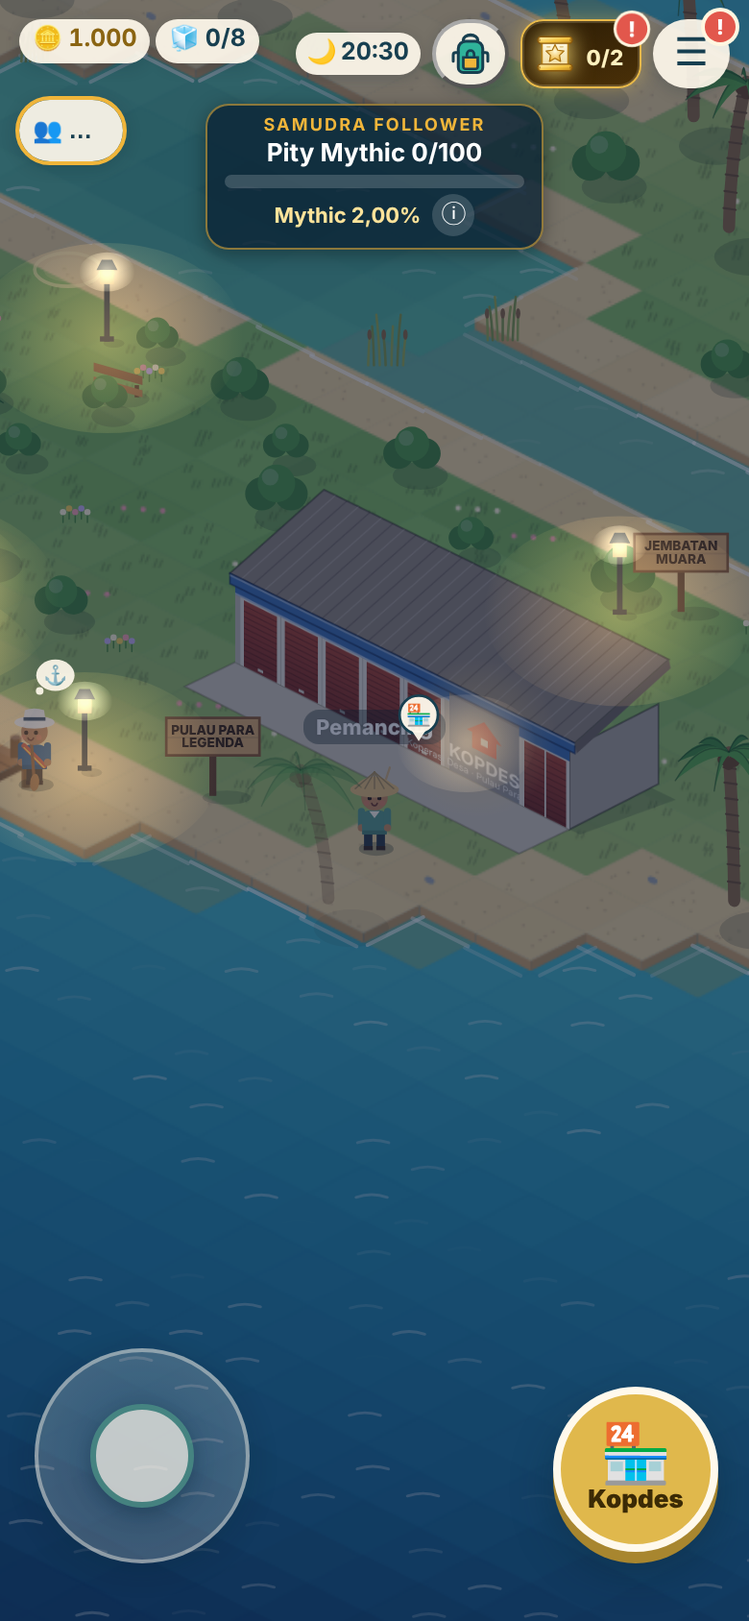
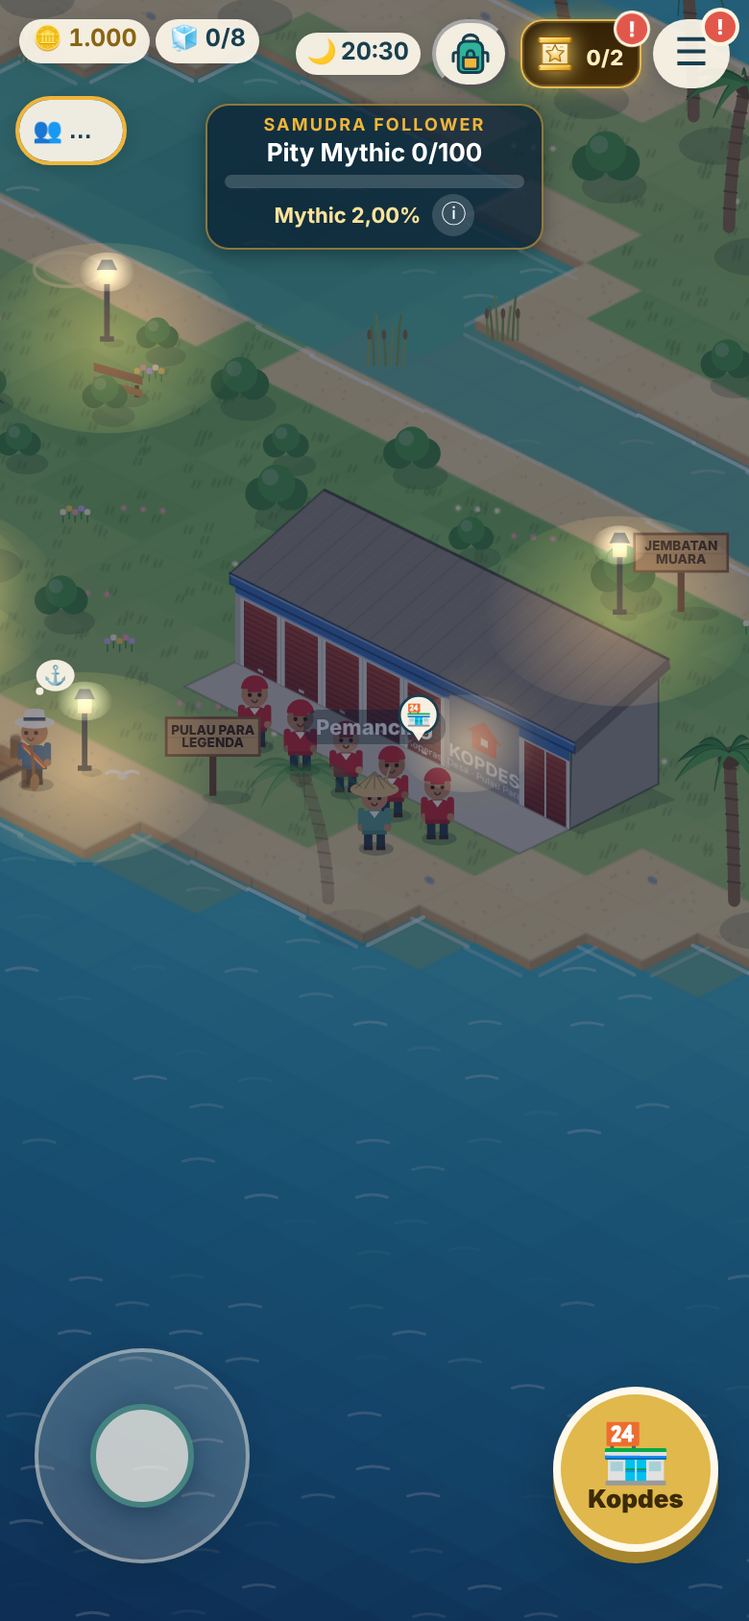
Kopdes: perbaikan atap, Joran Kopdes (1.000 koin, 250 kg), pasukan pegawai + pemimpin orisinal
- atap: dinding ujung menyentuh atap, rusuk dilembutkan
- Joran Kopdes merah bermerek, beli sekali via ecoBuy kind "kop", terkunci shop/config.kopdes (bawaan mati)
- 5 pegawai + 1 pemimpin orisinal: berbaris, angkut persediaan, pemimpin pergi, pegawai berbaris tegap
- tanpa karakter/suara tokoh nyata

Claude-Session: https://claude.ai/code/session_01HzrTpCFkhjSBdh3Pmjwd1c

Changed region(s): [[0.3077, 0.4005, 0.6154, 0.5237]]

diff --git a/kopdes/crew.js b/kopdes/crew.js
@@ -1,0 +1,86 @@
+// =========================================================
+//  NUSA ISLAND — REGU KOPDES: 1 pemimpin + 5 pegawai (karakter ORISINAL; bukan tokoh nyata). Hanya bila NUSA_KOPDES === true.
+//  Siklus (jam dinding, sama untuk semua pemain; sepenuhnya di klien, tanpa jaringan/server):
+//   1) pemimpin & 5 pegawai berbaris dari dermaga ke depan Kopdes; 2) pemimpin memberi perintah; 3) pegawai bolak-balik memikul
+//   peti persediaan dari tumpukan ke pintu samping Kopdes; 4) setelah SELESAI pemimpin memberi aba-aba lalu pergi ke dermaga dan HILANG;
+//   5) 5 pegawai berdiri tegap rapi sebaris di depan Kopdes sampai siklus berikutnya. Gambar memakai NW.drawCharacter (ringan, tanpa aset).
+// =========================================================
+(() => {
+"use strict";
+const NW = (window.NW = window.NW || {});
+if (!NW.kopdes) return;
+const CYCLE = 210, SPEED = 1.7, N = 5, TRIPS = 3;
+const DOCK = [31.4, 29.7], STACK = [32.3, 28.7], BAY = [38.6, 26.75], POST = [36.4, 29.5];
+const ROW = (i) => [34.7 + i * 0.82, 27.65];
+const STYLE_STAFF = [
+  { skin: "#c68b5e", hair: "#2a1d14" }, { skin: "#b07b52", hair: "#1c1410" }, { skin: "#d8a074", hair: "#3a2a1c" }, { skin: "#a9744a", hair: "#241a12" }, { skin: "#c28a5a", hair: "#30221a" },
+].map((o) => Object.assign({ shirt: "#c4262e", pants: "#2b3a44", hat: "cap", hatCol: "#c4262e", collar: "#fff7e8" }, o));
+const STYLE_LEAD = { shirt: "#5a6b3a", pants: "#39422a", skin: "#a87a50", hair: "#1e1611", hat: "baret", hatCol: "#8a1f2a", sash: "#c9a23b", sashLine: "#f0d070", collar: "#d8d2a8" };
+
+const dist = (a, b) => Math.hypot(a[0] - b[0], a[1] - b[1]);
+function build() {
+  const staff = [], picks = []; let tAllDone = 0;
+  for (let i = 0; i < N; i++) {
+    const w = [], t0 = 1.0 + i * 0.7; let t = t0, p = DOCK;
+    const go = (to, extra) => { t += dist(p, to) / SPEED; p = to; w.push(Object.assign({ t, x: to[0], y: to[1] }, extra || {})); };
+    const stay = (d, extra) => { t += d; w.push(Object.assign({ t, x: p[0], y: p[1] }, extra || {})); };
+    w.push({ t: t0, x: DOCK[0], y: DOCK[1] });
+    go(ROW(i)); const arrive = Math.max(t, 9.5 + i * 0.4); t = arrive; w.push({ t, x: p[0], y: p[1], dir: 2 });
+    t = 17 + i * 1.1; w.push({ t, x: p[0], y: p[1], dir: 2 });                       // tegap menunggu perintah, lalu mulai bekerja bergiliran
+    for (let k = 0; k < TRIPS; k++) {
+      go(STACK); stay(0.9, { dir: 1 }); picks.push(t); w[w.length - 1].prop = "crate";
+      go(BAY, { prop: "crate" }); stay(1.2, { hide: true, prop: null });
+    }
+    go(ROW(i)); stay(0.5, { dir: 2 }); tAllDone = Math.max(tAllDone, t);
+    staff.push(w);
+  }
+  const tLeave = tAllDone + 4, lead = [], speak = [];
+  let t = 0, p = DOCK; const go = (to) => { t += dist(p, to) / SPEED; p = to; lead.push({ t, x: to[0], y: to[1] }); };
+  lead.push({ t: 0, x: DOCK[0], y: DOCK[1] }); go(POST); lead.push({ t: t + 0.01, x: POST[0], y: POST[1], dir: 6 });
+  lead.push({ t: tLeave, x: POST[0], y: POST[1], dir: 6 }); t = tLeave; go(DOCK); lead[lead.length - 1].hide = true;
+  speak.push([11, 16, "Pasukan! Angkut barang persediaan ke dalam Kopdes!"], [26, 30, "Cepat, jangan ada yang menganggur!"], [40, 44, "Hati-hati, petinya jangan jatuh!"], [tLeave - 4.5, tLeave - 0.3, "Selesai! Kembali ke barisan!"]);
+  return { staff, lead, picks: picks.sort((a, b) => a - b), tLeave, speak, say: [[17.2, 19.5, "Siap, laksanakan!"]] };
+}
+const PLAN = build();
+
+function dirOf(dx, dy) { const sx = dx - dy, sy = (dx + dy) / 2, a = Math.atan2(sy, sx); return ((Math.round(a / (Math.PI / 4)) % 8) + 8) % 8; }
+function sample(w, tc, tw, last) {
+  if (tc < w[0].t) return { hide: true };
+  const E = w[w.length - 1];
+  if (tc >= E.t) return { x: E.x, y: E.y, dir: E.dir ?? 2, moving: false, hide: !!E.hide, prop: E.prop || null };
+  let k = 0; while (k < w.length - 2 && tc >= w[k + 1].t) k++;
+  const a = w[k], b = w[k + 1], d = Math.hypot(b.x - a.x, b.y - a.y), u = b.t > a.t ? (tc - a.t) / (b.t - a.t) : 1;
+  if (d < 0.01) return { x: a.x, y: a.y, dir: b.dir ?? a.dir ?? last.dir ?? 2, moving: false, hide: !!(a.hide || b.hide), prop: b.prop !== undefined ? b.prop : a.prop || null };
+  return { x: a.x + (b.x - a.x) * u, y: a.y + (b.y - a.y) * u, dir: dirOf(b.x - a.x, b.y - a.y), moving: true, hide: false, prop: a.prop || null };
+}
+const mk = (style) => ({ x: 0, y: 0, dir: 2, walk: 0, moving: false, style, rod: 0, seed: 1 + Math.random() * 6, prop: null });
+const chars = { lead: mk(STYLE_LEAD), staff: STYLE_STAFF.map(mk) };
+let clock = () => (Date.now() / 1000) % CYCLE;
+function bubble(c, p, text) {
+  c.save(); c.font = "bold 8px system-ui,sans-serif"; const w = c.measureText(text).width + 12, x = p.x - w / 2, y = p.y - 62;
+  c.fillStyle = "rgba(255,252,240,.96)"; c.strokeStyle = "rgba(60,40,20,.7)"; c.lineWidth = 1;
+  c.beginPath(); c.roundRect ? c.roundRect(x, y, w, 15, 6) : c.rect(x, y, w, 15); c.fill(); c.stroke();
+  c.beginPath(); c.moveTo(p.x - 3, y + 15); c.lineTo(p.x, y + 20); c.lineTo(p.x + 3, y + 15); c.closePath(); c.fill(); c.stroke();
+  c.fillStyle = "#3a2410"; c.textAlign = "center"; c.textBaseline = "middle"; c.fillText(text, p.x, y + 7.8); c.restore();
+}
+function remainingCrates(tc) { let n = 0; for (const t of PLAN.picks) if (tc >= t) n++; return N * TRIPS - n; }
+function drawStack(c, tc) {
+  const n = Math.min(8, Math.ceil(remainingCrates(tc) * 8 / (N * TRIPS))), b = NW.P(STACK[0] - 0.55, STACK[1] + 0.25, NW.groundZ ? NW.groundZ(STACK[0], STACK[1]) : NW.LIFT);
+  const sp = [[0, 0, 0], [13, 6, 0], [-13, 6, 0], [6, 3, 9], [-7, 3, 9], [0, 7, 9], [13, 6, 9], [0, 0, 18]];
+  for (let i = 0; i < n; i++) { const [dx, dy, dz] = sp[i], x = b.x + dx, y = b.y + dy - dz; c.fillStyle = "#c79a5c"; c.fillRect(x - 6, y - 9, 12, 9); c.strokeStyle = "#7a5530"; c.lineWidth = 0.9; c.strokeRect(x - 6, y - 9, 12, 9); c.fillStyle = "#c4262e"; c.fillRect(x - 1.5, y - 9, 3, 9); }
+}
+function layer(t) {
+  if (window.NUSA_KOPDES !== true) return [];
+  const tc = clock(), items = [], gzf = (x, y) => (NW.groundZ ? NW.groundZ(x, y) : NW.LIFT);
+  items.push({ d: STACK[0] + STACK[1] + 0.1, draw: (c) => drawStack(c, tc) });
+  const put = (ch, s, say, speaking) => {
+    if (s.hide) return; Object.assign(ch, { x: s.x, y: s.y, dir: s.dir ?? ch.dir, moving: !!s.moving, prop: s.prop || null }); if (s.moving) ch.walk = t * 10;
+    items.push({ d: s.x + s.y, draw: (c) => { NW.drawCharacter(c, ch, t); if (say) bubble(c, NW.P(s.x, s.y, gzf(s.x, s.y)), say); } });
+  };
+  const ls = tc < PLAN.lead[0].t ? { hide: true } : sample(PLAN.lead, tc, t, chars.lead), say = (PLAN.speak.find((q) => tc >= q[0] && tc < q[1]) || [])[2];
+  put(chars.lead, ls, say);
+  for (let i = 0; i < N; i++) { const s = sample(PLAN.staff[i], tc, t, chars.staff[i]); put(chars.staff[i], s, i === 0 && tc >= PLAN.say[0][0] && tc < PLAN.say[0][1] ? PLAN.say[0][2] : null); }
+  return items;
+}
+NW.kopdesCrew = { layer, PLAN, CYCLE, ROW, STACK, BAY, POST, DOCK, setClock: (f) => { clock = f || (() => (Date.now() / 1000) % CYCLE); }, at: (tc) => ({ lead: sample(PLAN.lead, tc, 0, chars.lead), staff: PLAN.staff.map((w, i) => sample(w, tc, 0, chars.staff[i])), crates: remainingCrates(tc) }) };
+})();

diff --git a/world/look.js b/world/look.js
@@ -94,6 +94,7 @@ const RODS = [
 function syncNames() { RODS.forEach((r, i) => { r.name = UPGRADES.rod.levels[i]; }); }
 syncNames();
 function rodSpec(level) {
+  if (level === undefined && NW.kopdesRod && NW.kopdesRod.spec) { const x = NW.kopdesRod.spec(); if (x) return x; } // Joran Kopdes (dibeli di Kopdes; kepemilikan dari server)
   if (level === undefined && NW.aurora && NW.aurora.rodSpec) { const x = NW.aurora.rodSpec(); if (x) return x; } // Pancing Aurora Samudra (Gamepass; kepemilikan dari server)
   if (level === undefined && NW.quest && NW.quest.rodSpec) { const x = NW.quest.rodSpec(); if (x) return x; } // Joran WhatsApp (hadiah Quest Owner)
   if (level === undefined && NW.streak && NW.streak.rodSpec) { const x = NW.streak.rodSpec(); if (x) return x; } // Joran Pelaut Eksklusif (hadiah Login Streak)
@@ -132,6 +133,16 @@ function accents(c, spec, at, nx, ny, g) {
     c.strokeStyle = `rgba(255,255,255,${(0.22 + 0.18 * sh).toFixed(2)})`; c.lineWidth = 0.7;
     c.beginPath(); c.moveTo(p0[0] + nx * 0.5, p0[1] + ny * 0.5); c.lineTo(p1[0] + nx * 0.5, p1[1] + ny * 0.5); c.stroke();
     const tp = at(1); c.fillStyle = a.col; c.beginPath(); c.arc(tp[0], tp[1], 1.1, 0, 7); c.fill();
+  } else if (a.kind === "kopdes") { // Joran Kopdes: pita emas, plat merek KOPDES sejajar batang, kilau & percik MERAH (ringan: 1 gradien + 3 titik)
+    [0.3, 0.46, 0.62, 0.78].forEach((k) => band(k, w, a.col, 1.2));
+    band(g + 0.02, w, a.col, 1.4);
+    const q0 = at(0), q1 = at(1), ang = Math.atan2(q1[1] - q0[1], q1[0] - q0[0]), pl = at(g + 0.2), tt = performance.now() / 1000;
+    c.save(); c.translate(pl[0], pl[1]); c.rotate(ang);
+    c.fillStyle = "#fff7e8"; c.fillRect(-5, -1.9, 10, 3.8); c.strokeStyle = "#8a1219"; c.lineWidth = 0.4; c.strokeRect(-5, -1.9, 10, 3.8);
+    c.fillStyle = "#b3171f"; c.font = "bold 2.7px system-ui,sans-serif"; c.textAlign = "center"; c.fillText("KOPDES", 0, 0.95); c.restore();
+    const tp = at(1), gl = c.createRadialGradient(tp[0], tp[1], 0, tp[0], tp[1], 7), pu = 0.7 + 0.3 * Math.sin(tt * 3.2);
+    gl.addColorStop(0, `rgba(255,70,60,${(0.6 * pu).toFixed(2)})`); gl.addColorStop(1, "rgba(255,70,60,0)"); c.fillStyle = gl; c.fillRect(tp[0] - 7, tp[1] - 7, 14, 14);
+    for (let i = 0; i < 3; i++) { const k = (tt * 0.55 + i / 3) % 1, p = at(0.3 + 0.7 * k), sd = Math.sin(tt * 4 + i * 2.1) * 2.2; c.fillStyle = `rgba(255,${60 + i * 40},${50},${(0.85 * (1 - k)).toFixed(2)})`; c.beginPath(); c.arc(p[0] + nx * sd, p[1] + ny * sd, 0.9 * (1 - k * 0.5), 0, 7); c.fill(); }
   } else if (a.kind === "pearls") { // manik karang berselang-seling
     [0.38, 0.48, 0.58, 0.68].forEach((k, i) => { const p = at(k); c.fillStyle = i % 2 ? a.col : "#ff9b7a"; c.beginPath(); c.arc(p[0], p[1], 1.0, 0, 7); c.fill(); });
     band(g + 0.02, w, a.col, 1.2);
@@ -187,6 +198,14 @@ function drawBackRod(c, spec, fx, y0, sway, inFront) {
 }
 // Pratinjau untuk katalog toko (kanvas kecil, di-cache per tingkat)
 const previewCache = {};
+function rodPreviewSpec(spec) {   // pratinjau joran khusus (mis. Joran Kopdes) yang tidak ada di tangga 20 joran
+  const key = "s:" + spec.name; if (previewCache[key]) return previewCache[key];
+  const cv = document.createElement("canvas"); cv.width = 72; cv.height = 108;
+  const c = cv.getContext("2d"); c.translate(36, 100); c.scale(2.2, 2.2);
+  c.fillStyle = "rgba(0,0,0,.12)"; c.beginPath(); c.ellipse(0, 4, 9, 2.2, 0, 0, 7); c.fill();
+  drawBackRod(c, spec, 0, 0, 0, true);
+  return (previewCache[key] = cv.toDataURL());
+}
 function rodPreview(level) {
   if (previewCache[level]) return previewCache[level];
   const cv = document.createElement("canvas"); cv.width = 72; cv.height = 108;
@@ -292,5 +311,5 @@ function hook() {
   N().on("catch", onCatch);
 }
 
-NW.look = { TITLES, RODS, rodPreview, drawHeldRod, syncNames, rankOf, titleName, count, rank, currentTitle, nextGoal, playerName, cleanName, rodSpec, drawBackRod, drawLabel, labelTop, drawPlayerLabel, panelSection, act, hook, defaults };
+NW.look = { TITLES, RODS, rodPreview, rodPreviewSpec, drawHeldRod, syncNames, rankOf, titleName, count, rank, currentTitle, nextGoal, playerName, cleanName, rodSpec, drawBackRod, drawLabel, labelTop, drawPlayerLabel, panelSection, act, hook, defaults };
 })();

diff --git a/tests/unit-kopdes.js b/tests/unit-kopdes.js
@@ -1,0 +1,23 @@
+// Uji server Joran Kopdes: terkunci bawaan, gerbang config Owner, harga dari tabel server, SATU kali, saldo, klien tak bisa memalsukan.
+const assert = require("assert"), fs = require("fs"), path = require("path");
+const EC = require("../economy/core.js"), FM = require("../fishmath.js"), T = require("../economy/tables.js");
+let pass = 0, fail = 0; const t = async (n, f) => { try { await f(); pass++; } catch (e) { fail++; console.log("FAIL", n, "\n   ", e.stack.split("\n").slice(0, 3).join("\n    ")); } };
+function mkdb() { const m = new Map(); const rd = (p) => (m.has(p) ? JSON.parse(m.get(p)) : null); let q = Promise.resolve();
+  return { m, get: async (p) => rd(p), tx: (fn) => { const run = q.then(async () => { const buf = new Map(); const out = await fn({ get: async (p) => (buf.has(p) ? JSON.parse(buf.get(p)) : rd(p)), set: async (p, o) => { buf.set(p, JSON.stringify(o)); } }); for (const [p, v] of buf) m.set(p, v); return out; }); q = run.catch(() => {}); return run; } }; }
+let now = 1e12, n = 0; const op = () => "op" + (++n) + "xxxxxxxx", U = { uid: "u1" };
+const mk = (cfg) => { const db = mkdb(); if (cfg) db.m.set("shop/config", JSON.stringify(cfg)); return { db, e: EC.makeEconomyServer(db, { clock: () => now, tables: T, fishmath: FM, trustClientInit: true }) }; };
+(async () => {
+  await t("tabel: Joran Kopdes 1.000 koin, 250 kg", () => { assert.deepStrictEqual(JSON.parse(JSON.stringify(T.KOP)), { price: 1000, capKg: 250 }); });
+  await t("salinan Functions sama dengan sumber", () => { for (const [a, b] of [["economy/core.js", "economy-core.js"], ["economy/tables.js", "economy-tables.js"]]) assert.ok(fs.readFileSync(path.join(__dirname, "../firebase/functions/lib", b), "utf8").endsWith(fs.readFileSync(path.join(__dirname, "..", a), "utf8").slice(-400))); });
+  for (const [nm, cfg] of [["tanpa config", null], ["kopdes:false", { kopdes: false }], ["kopdes string 'true'", { kopdes: "true" }]])
+    await t("bendera MATI (" + nm + ") → beli ditolak, koin utuh", async () => { const { e } = mk(cfg); await e.ecoInit(U, { money: 5000 }); await assert.rejects(() => e.ecoBuy(U, { opId: op(), kind: "kop" }), /belum dibuka/); const s = await e.ecoState(U); assert.equal(!!s.kop, false); assert.equal(s.balance, 5000); });
+  await t("bendera NYALA: beli 1.000 (harga server, klien tak bisa mengubah), kop=true, saldo turun", async () => { const { e } = mk({ kopdes: true }); await e.ecoInit(U, { money: 5000 });
+    const r = await e.ecoBuy(U, { opId: op(), kind: "kop", price: 1, cost: 1 }); assert.equal(r.price, 1000); assert.equal(r.kop, true); const s = await e.ecoState(U); assert.equal(s.balance, 4000); assert.equal(s.kop, true); });
+  await t("beli kedua ditolak (milik selamanya, satu kali); koin tidak berkurang lagi", async () => { const { e } = mk({ kopdes: true }); await e.ecoInit(U, { money: 5000 }); await e.ecoBuy(U, { opId: op(), kind: "kop" });
+    await assert.rejects(() => e.ecoBuy(U, { opId: op(), kind: "kop" }), /sudah dimiliki/); assert.equal((await e.ecoState(U)).balance, 4000); });
+  await t("saldo kurang → ditolak, kop tetap false", async () => { const { e } = mk({ kopdes: true }); await e.ecoInit(U, { money: 999 }); await assert.rejects(() => e.ecoBuy(U, { opId: op(), kind: "kop" }), /tidak cukup/); assert.equal(!!(await e.ecoState(U)).kop, false); });
+  await t("opId yang sama (klik ganda) → hanya satu pembelian", async () => { const { e } = mk({ kopdes: true }); await e.ecoInit(U, { money: 5000 }); const id = op();
+    const rs = await Promise.allSettled([e.ecoBuy(U, { opId: id, kind: "kop" }), e.ecoBuy(U, { opId: id, kind: "kop" })]); assert.equal((await e.ecoState(U)).balance, 4000); assert.ok(rs.some((x) => x.status === "fulfilled")); });
+  await t("pembelian lama (up/home/cat) tidak berubah", async () => { const { e } = mk({ kopdes: true }); await e.ecoInit(U, { money: 3000 }); const a = await e.ecoBuy(U, { opId: op(), kind: "up", k: "rod", lv: 1 }); assert.equal(a.price, T.UP.rod.cost[1]); await assert.rejects(() => e.ecoBuy(U, { opId: op(), kind: "zzz" }), /tidak dikenal/); });
+  console.log(`unit-kopdes: ${pass} lulus, ${fail} gagal`); process.exit(fail ? 1 : 0);
+})();

diff --git a/economy/core.js b/economy/core.js
@@ -59,7 +59,7 @@
     const fresh = () => ({ v: 1, init: false, bal: 0, up: { rod: 0, bait: 0, cooler: 0, boat: 0 }, homeLv: 1, cat: {}, claimed: {}, box: [], catches: [], missions: { day: 0, total: 0, n: 0, ids: [] },
       ops: [], earned: 0, spent: 0, lastCatchAt: 0, quest: null, streak: null, streakBait: 0, ev: {}, troph: {} });
     const topupOf = (ent) => (ent && ent.wallet && ent.wallet.NYATA) || 0;
-    const view = (eco, ent) => ({ init: eco.init, own: eco.bal, topup: topupOf(ent), balance: eco.bal + topupOf(ent), up: eco.up, homeLv: eco.homeLv, cat: eco.cat,
+    const view = (eco, ent) => ({ init: eco.init, own: eco.bal, topup: topupOf(ent), balance: eco.bal + topupOf(ent), up: eco.up, homeLv: eco.homeLv, cat: eco.cat, kop: !!eco.kop,
       box: eco.box.map((b) => b.u), sx: eco.box.filter((b) => FISH[b.id] && FISH[b.id].sup).map((b) => ({ uid: b.u, id: b.id, w: b.w })), claimed: Object.keys(eco.claimed), troph: eco.troph || {},
       ...(QK ? { qo: QK.view(eco.quest) } : {}),
       ...(AU ? { aur: { own: AU.ownsAny(ent), live: AU.active(ent, eco), eq: AU.equipOn(eco), n: (eco.aur && eco.aur.n) || 0, up: (eco.aur && eco.aur.up) || 0 } } : {}) });
@@ -207,7 +207,7 @@
           for (const it of items) {
             let f = FISH[it.id], w = Number(it.w);
             if (f.protected) { const r = Math.round(f.price * PRICE_SCALE * FM.effectiveKg(w) * 1.2); reward += r; credit(eco, r); fin.push(it); continue; }
-            if (QK && w > QK.plausKg(eco.up.rod, eco.quest)) { skipped.push(it.uid); capSkipped.push(it.uid); fin.push(it); continue; }   // mustahil bagi joran terverifikasi (Quest Owner: batas 100 kg ditegakkan server); tangkapan sah tidak tersentuh
+            if (QK && w > Math.max(QK.plausKg(eco.up.rod, eco.quest), eco.kop && T.KOP ? T.KOP.capKg * QK.PLAUS : 0)) { skipped.push(it.uid); capSkipped.push(it.uid); fin.push(it); continue; }   // mustahil bagi joran terverifikasi (Quest Owner: batas 100 kg ditegakkan server); tangkapan sah tidak tersentuh
             if (pondKnows(eco, it.uid)) { skipped.push(it.uid); fin.push(it); continue; }            // ikan yang sedang/pernah di kolam (mis. simpanan lama dipulihkan) tidak boleh masuk kotak lagi
             if (eco.box.some((b) => b.u === it.uid)) throw E("already-exists", "UID ikan sudah ada.");
             if (eco.box.length >= LIM.boxMax) throw E("resource-exhausted", "Kotak ikan penuh.");
@@ -488,6 +488,12 @@
             if (next >= T.HOME.length) throw E("failed-precondition", "Rumah sudah level maksimum.");
             if (p.lv !== next) throw E("failed-precondition", "Level tujuan tidak sesuai (klik basi).");
             price = T.HOME[next].price; apply = () => { eco.homeLv = next; };
+          } else if (p.kind === "kop") {            // Joran Kopdes: SATU kali, harga dari tabel; TERKUNCI sampai Owner menyalakan shop/config.kopdes (bawaan MATI)
+            if (!T.KOP) throw E("failed-precondition", "Joran Kopdes belum tersedia.");
+            const cfg = (await t.get("shop/config")) || {};
+            if (cfg.kopdes !== true) throw E("failed-precondition", "Joran Kopdes belum dibuka.");
+            if (eco.kop) throw E("failed-precondition", "Joran Kopdes sudah dimiliki.");
+            price = T.KOP.price; apply = () => { eco.kop = true; };
           } else if (p.kind === "cat") {
             const c = typeof p.id === "string" && Object.prototype.hasOwnProperty.call(T.CAT, p.id) ? T.CAT[p.id] : null;
             if (!c) throw E("invalid-argument", "Barang tidak dikenal.");

diff --git a/firebase/functions/lib/economy-core.js b/firebase/functions/lib/economy-core.js
@@ -60,7 +60,7 @@
     const fresh = () => ({ v: 1, init: false, bal: 0, up: { rod: 0, bait: 0, cooler: 0, boat: 0 }, homeLv: 1, cat: {}, claimed: {}, box: [], catches: [], missions: { day: 0, total: 0, n: 0, ids: [] },
       ops: [], earned: 0, spent: 0, lastCatchAt: 0, quest: null, streak: null, streakBait: 0, ev: {}, troph: {} });
     const topupOf = (ent) => (ent && ent.wallet && ent.wallet.NYATA) || 0;
-    const view = (eco, ent) => ({ init: eco.init, own: eco.bal, topup: topupOf(ent), balance: eco.bal + topupOf(ent), up: eco.up, homeLv: eco.homeLv, cat: eco.cat,
+    const view = (eco, ent) => ({ init: eco.init, own: eco.bal, topup: topupOf(ent), balance: eco.bal + topupOf(ent), up: eco.up, homeLv: eco.homeLv, cat: eco.cat, kop: !!eco.kop,
       box: eco.box.map((b) => b.u), sx: eco.box.filter((b) => FISH[b.id] && FISH[b.id].sup).map((b) => ({ uid: b.u, id: b.id, w: b.w })), claimed: Object.keys(eco.claimed), troph: eco.troph || {},
       ...(QK ? { qo: QK.view(eco.quest) } : {}),
       ...(AU ? { aur: { own: AU.ownsAny(ent), live: AU.active(ent, eco), eq: AU.equipOn(eco), n: (eco.aur && eco.aur.n) || 0, up: (eco.aur && eco.aur.up) || 0 } } : {}) });
@@ -208,7 +208,7 @@
           for (const it of items) {
             let f = FISH[it.id], w = Number(it.w);
             if (f.protected) { const r = Math.round(f.price * PRICE_SCALE * FM.effectiveKg(w) * 1.2); reward += r; credit(eco, r); fin.push(it); continue; }
-            if (QK && w > QK.plausKg(eco.up.rod, eco.quest)) { skipped.push(it.uid); capSkipped.push(it.uid); fin.push(it); continue; }   // mustahil bagi joran terverifikasi (Quest Owner: batas 100 kg ditegakkan server); tangkapan sah tidak tersentuh
+            if (QK && w > Math.max(QK.plausKg(eco.up.rod, eco.quest), eco.kop && T.KOP ? T.KOP.capKg * QK.PLAUS : 0)) { skipped.push(it.uid); capSkipped.push(it.uid); fin.push(it); continue; }   // mustahil bagi joran terverifikasi (Quest Owner: batas 100 kg ditegakkan server); tangkapan sah tidak tersentuh
             if (pondKnows(eco, it.uid)) { skipped.push(it.uid); fin.push(it); continue; }            // ikan yang sedang/pernah di kolam (mis. simpanan lama dipulihkan) tidak boleh masuk kotak lagi
             if (eco.box.some((b) => b.u === it.uid)) throw E("already-exists", "UID ikan sudah ada.");
             if (eco.box.length >= LIM.boxMax) throw E("resource-exhausted", "Kotak ikan penuh.");
@@ -489,6 +489,12 @@
             if (next >= T.HOME.length) throw E("failed-precondition", "Rumah sudah level maksimum.");
             if (p.lv !== next) throw E("failed-precondition", "Level tujuan tidak sesuai (klik basi).");
             price = T.HOME[next].price; apply = () => { eco.homeLv = next; };
+          } else if (p.kind === "kop") {            // Joran Kopdes: SATU kali, harga dari tabel; TERKUNCI sampai Owner menyalakan shop/config.kopdes (bawaan MATI)
+            if (!T.KOP) throw E("failed-precondition", "Joran Kopdes belum tersedia.");
+            const cfg = (await t.get("shop/config")) || {};
+            if (cfg.kopdes !== true) throw E("failed-precondition", "Joran Kopdes belum dibuka.");
+            if (eco.kop) throw E("failed-precondition", "Joran Kopdes sudah dimiliki.");
+            price = T.KOP.price; apply = () => { eco.kop = true; };
           } else if (p.kind === "cat") {
             const c = typeof p.id === "string" && Object.prototype.hasOwnProperty.call(T.CAT, p.id) ? T.CAT[p.id] : null;
             if (!c) throw E("invalid-argument", "Barang tidak dikenal.");

diff --git a/kopdes/ui.js b/kopdes/ui.js
@@ -4,9 +4,27 @@
 "use strict";
 const NW = (window.NW = window.NW || {});
 if (!window.Nusa || !Nusa.registerPanel) return;
+// ---- Joran Kopdes: dibeli SEKALI (server: ecoBuy kind "kop", terkunci shop/config.kopdes), di luar tangga 20 joran. Angka dari data.js (KOPDES_ROD).
+const R = KOPDES_ROD, SPEC = { blank: "#c4262e", w: 3.3, grip: "#3a1410", gripLen: 0.34, reel: { col: "#ffd24a", r: 3.3 }, node: false, accent: { kind: "kopdes", col: "#ffd24a" }, name: R.name };
+const owned = () => !!(Nusa.S && Nusa.S.kop), on = () => owned() && Nusa.S.kopOn !== false;
+NW.kopdesRod = { ROD: R, SPEC, owned, on, spec: () => (on() ? SPEC : null), capFloor: () => (on() ? R.capKg : 0), mul: () => (on() ? { str: R.strength, reel: R.reel } : null) };
+const fmt = (n) => Nusa.fmt(n), bal = () => (NW.wallet ? NW.wallet.bal() : Nusa.S.money);
+function rodCardHTML() {
+  const st = owned() ? (on() ? `<span class="rod-tag on">✔ Dipakai</span>` : `<span class="rod-tag">Dimiliki</span>`) : "";
+  const btn = owned() ? `<button class="btn" data-act="kopeq">${on() ? "Lepas" : "Pakai"}</button>` : `<button class="btn ${bal() >= R.price ? "gold" : ""}" data-act="kopbuy" ${bal() >= R.price ? "" : "disabled"}>Beli</button>`;
+  return `<div class="rod-card kop ${on() ? "cur" : ""}"><img src="${NW.look.rodPreviewSpec(SPEC)}" alt="${R.name}" width="44" height="66"><div class="grow"><div class="nm">★ ${R.name} ${st}</div>
+    <div class="sub">Ikan hingga ${R.capKg} kg · Kuat ${String(R.strength).replace(".", ",")}× · Tarik ${String(R.reel).replace(".", ",")}× · kilau merah</div><div class="sub">${R.desc}</div>
+    <div class="sub price-line">${owned() ? "Milik selamanya" : "🪙 " + fmt(R.price) + " · sekali beli"}</div></div>${btn}</div>`;
+}
 Nusa.registerPanel("kopdes", {
   title: () => "🏪 Kopdes — Koperasi Desa",
-  render: () => `<p class="muted">Koperasi Desa Pulau Para Legenda menjual joran untuk para pemancing. Harga dan urutan joran sama dengan Toko Pak Bono; pembayaran dicatat server.</p>` + Nusa.rodShopHTML(),
+  render: () => `<p class="muted">Koperasi Desa Pulau Para Legenda menjual joran untuk para pemancing. Pembayaran dicatat server.</p>` + rodCardHTML() + `<p class="muted" style="margin-top:10px">Joran biasa (harga sama dengan Toko Pak Bono):</p>` + Nusa.rodShopHTML(),
+  act: (act) => {
+    if (act === "kopeq" && owned()) { Nusa.S.kopOn = !on(); Nusa.save(); Nusa.renderPanel(); }
+    if (act === "kopbuy" && !owned() && NW.wallet) {
+      NW.wallet.charge(R.price, "kop:rod", () => { Nusa.S.kop = true; Nusa.S.kopOn = true; try { Nusa.toast("🎣 " + R.name + " dibeli!", "good"); Nusa.save(); Nusa.refreshHUD(); } catch (e) {} Nusa.renderPanel(); });
+    }
+  },
 });
 function talk(api) {
   api.openDialog({

diff --git a/kopdes/build.js b/kopdes/build.js
@@ -25,7 +25,9 @@ function art() {
   poly([[-4, 3], [W + 6, W / 2 + 3], [W + DX + 10, W / 2 + DY + 9], [DX - 2, DY + 6]], "rgba(20,35,28,.20)");
   poly([[0, 0], [W, W / 2], [W - 29, W / 2 + 14], [-29, 14]], "#cfc9bc", "rgba(90,80,66,.35)");
   // dinding ujung kanan (menghadap timur)
-  poly([R0, [R0[0] + DX, R0[1] + DY], [R0[0] + DX, R0[1] + DY - HH], [R0[0], R0[1] - HH]], "#a7a39b", "rgba(40,36,30,.5)");
+  const E0 = [-3, -HH - 5], E1 = [W + 3, W / 2 - HH - 5 + 1.5], B0 = [E0[0] + DX + 3, E0[1] + DY - 22], B1 = [E1[0] + DX + 3, E1[1] + DY - 22];
+  poly([R0, [R0[0] + DX, R0[1] + DY], [B1[0] - 6, B1[1] + 5], [E1[0] - 2, E1[1] + 5]], "#a7a39b", "rgba(40,36,30,.5)");   // dinding ujung penuh sampai bawah atap (tanpa celah segitiga)
+  g.fillStyle = "rgba(0,0,0,.10)"; g.beginPath(); g.moveTo(R0[0], R0[1]); g.lineTo(R0[0] + DX, R0[1] + DY); g.lineTo(B1[0] - 6, B1[1] + 5); g.lineTo(E1[0] - 2, E1[1] + 5); g.closePath(); g.fill();
   // fasad: digambar datar lalu dimiringkan 0,5 (sejajar sumbu isometrik)
   g.save(); g.transform(1, 0.5, 0, 1, 0, 0);
   g.fillStyle = "#bdb9b1"; g.fillRect(0, -HH, W, HH);                         // dinding dasar
@@ -50,14 +52,14 @@ function art() {
   g.fillStyle = "#3b6db0"; g.fillRect(163, -HH, 29, 7);
   g.restore();
   // atap seng bergelombang: dataran miring dari tepi depan ke punggung atap
-  const E0 = [-3, -HH - 5], E1 = [W + 3, W / 2 - HH - 5 + 1.5], B0 = [E0[0] + DX + 3, E0[1] + DY - 22], B1 = [E1[0] + DX + 3, E1[1] + DY - 22];
   poly([E0, E1, B1, B0], "#8e857d", "rgba(40,36,30,.5)");
   const n = 30; g.lineWidth = 0.8;
   for (let i = 1; i < n; i++) { const k = i / n, a = [E0[0] + (E1[0] - E0[0]) * k, E0[1] + (E1[1] - E0[1]) * k], b = [B0[0] + (B1[0] - B0[0]) * k, B0[1] + (B1[1] - B0[1]) * k];
-    g.strokeStyle = i % 2 ? "rgba(255,255,255,.20)" : "rgba(40,30,24,.26)"; g.beginPath(); g.moveTo(a[0], a[1]); g.lineTo(b[0], b[1]); g.stroke(); }
+    g.strokeStyle = i % 2 ? "rgba(255,255,255,.07)" : "rgba(40,30,24,.14)"; g.beginPath(); g.moveTo(a[0], a[1]); g.lineTo(b[0], b[1]); g.stroke(); }
   poly([E0, E1, [E1[0], E1[1] + 6], [E0[0], E0[1] + 6]], "#3b6db0", "rgba(20,40,80,.6)");                       // tepi biru
   g.fillStyle = "rgba(255,255,255,.4)"; g.beginPath(); g.moveTo(E0[0], E0[1] + 1); g.lineTo(E1[0], E1[1] + 1); g.lineWidth = 1; g.strokeStyle = "rgba(255,255,255,.4)"; g.stroke();
   poly([E1, B1, [B1[0] + 1, B1[1] + 5], [E1[0] + 1, E1[1] + 6]], "#6e665f");                                    // tebal atap sisi kanan
+  g.strokeStyle = "rgba(60,52,46,.65)"; g.lineWidth = 1.6; g.beginPath(); g.moveTo(B0[0], B0[1]); g.lineTo(B1[0], B1[1]); g.stroke();   // bubungan
   cache = { cv, e0: E0, sx: SIGN_X };
   return cache;
 }

diff --git a/world/draw.js b/world/draw.js
@@ -707,6 +707,9 @@ function drawCharacter(c, ch, t) {
     for (let i = 0; i < 4; i++) { c.beginPath(); c.moveTo(-8 + i * 5, y0 - 15 + w); c.lineTo(-10 + i * 5, y0 - 4); c.stroke(); }
     for (let j = 0; j < 3; j++) { c.beginPath(); c.moveTo(-9, y0 - 13 + j * 3.5 + w * 0.5); c.lineTo(9, y0 - 13 + j * 3.5 - w * 0.5); c.stroke(); }
     c.fillStyle = "#e2574c"; c.beginPath(); c.arc(9, y0 - 6, 1.6, 0, 7); c.fill();
+  } else if (ch.prop === "crate") { // peti persediaan dipikul di depan badan (pegawai Kopdes)
+    c.fillStyle = "#c79a5c"; c.fillRect(-7, y0 - 17, 14, 10); c.strokeStyle = "#7a5530"; c.lineWidth = 0.9; c.strokeRect(-7, y0 - 17, 14, 10);
+    c.beginPath(); c.moveTo(-7, y0 - 12); c.lineTo(7, y0 - 12); c.stroke(); c.fillStyle = "#c4262e"; c.fillRect(-1.5, y0 - 17, 3, 10);
   } else if (ch.prop === "basket") {
     c.fillStyle = "#b8864a"; c.fillRect(fx * 6 - 6, y0 - 15, 12, 7); c.fillStyle = "#8c9a8a"; c.beginPath(); c.ellipse(fx * 6, y0 - 15, 5, 2, 0, 0, 7); c.fill();
   } else if (ch.prop === "binoc" && !moving) { // teropong (Nala)
@@ -758,6 +761,9 @@ function drawCharacter(c, ch, t) {
   } else if (st.hat === "cap") {
     c.fillStyle = st.hatCol; c.beginPath(); c.arc(0, hy - 3, 7.8, Math.PI, 0); c.fill();
     c.fillRect(back ? -fx * 2 - 4 : fx * 4 - 4, hy - 3.5, 8 + Math.abs(fx) * 3, 2.4);
+  } else if (st.hat === "baret") { // baret miring (pemimpin regu Kopdes)
+    c.fillStyle = st.hatCol; c.beginPath(); c.ellipse(fx * 1.5, hy - 5, 9.6, 4.4, -0.12, 0, 7); c.fill();
+    c.fillStyle = shade(st.hatCol, -0.25); c.fillRect(-7.4, hy - 3.4, 14.8, 1.5); c.fillStyle = "#f0c84a"; c.beginPath(); c.arc(fx * 4 - 0.5, hy - 5.4, 1.4, 0, 7); c.fill();
   } else if (st.hat === "fedora") { // topi lebar (Pak Raka, pemandu)
     c.fillStyle = st.hatCol; c.beginPath(); c.ellipse(0, hy - 5.5, 11.5, 3.6, 0, 0, 7); c.fill();
     c.beginPath(); c.moveTo(-6.5, hy - 5.5); c.lineTo(-5.5, hy - 12.5); c.quadraticCurveTo(0, hy - 14.5, 5.5, hy - 12.5); c.lineTo(6.5, hy - 5.5); c.closePath(); c.fill();

diff --git a/game.js b/game.js
@@ -400,7 +400,7 @@ function triggerBite() {
 function startFight() {
   const { fish, w, wr } = G.pending;
   const pe = NW.FM.fightPower(fish, w, wr);                     // ikan ≤ 20 kg: sama persis seperti dulu
-  const rodCap = Math.max(UPGRADES.rod.cap[upLvl("rod")] * (NW.streak ? NW.streak.rodMul().cap : 1), NW.quest ? NW.quest.capFloor() : 0), om = NW.FM.overloadMuls(w, rodCap);
+  const rodCap = Math.max(UPGRADES.rod.cap[upLvl("rod")] * (NW.streak ? NW.streak.rodMul().cap : 1), NW.quest ? NW.quest.capFloor() : 0, NW.kopdesRod ? NW.kopdesRod.capFloor() : 0), om = NW.FM.overloadMuls(w, rodCap);
   G.fight = { fish, w, pe, big: NW.FM.bigness(w), weak: om.weak, riseMul: om.rise, reelMul: om.reel, T: 0.25, P: 0.18, surge: 0, surgeT: rand(0.8, 2), slack: 0, over: 0, fx: G.bob.x, fxT: G.bob.x, z0: G.bob.z,
     challenge: !!G.pending.challenge, quest: G.pending.quest || null, perfect: !!G.perfect, reads: 0, tired: 0, readWin: 0, readDone: true, tiredT: 0, tiredHold: 0, tiredDone: true, warn: false };
   $("tensionBar").classList.toggle("ideal", skill("kendali"));
@@ -587,7 +587,7 @@ function update(dt) {
 
 function updateFight(dt) {
   const F = G.fight; if (!F) return;
-  const lv = upLvl("rod"), rm = NW.streak ? NW.streak.rodMul() : { str: 1, reel: 1 }, str = UPGRADES.rod.strength[lv] * rm.str, reel = UPGRADES.rod.reel[lv] * rm.reel * F.reelMul; // reelMul < 1 hanya bila ikan jauh melebihi kapasitas joran
+  const lv = upLvl("rod"), rm = NW.streak ? NW.streak.rodMul() : { str: 1, reel: 1 }, kr = NW.kopdesRod && NW.kopdesRod.mul(), str = Math.max(UPGRADES.rod.strength[lv] * rm.str, kr ? kr.str : 0), reel = Math.max(UPGRADES.rod.reel[lv] * rm.reel, kr ? kr.reel : 0) * F.reelMul; // reelMul < 1 hanya bila ikan jauh melebihi kapasitas joran
   const big = F.big; // 0 untuk ikan ≤ 20 kg → faktor ukuran di bawah sama dengan perilaku lama
   F.age = (F.age || 0) + dt;
   const pe = F.pe * NW.FM.fatigue(F.age); // ikan lelah seiring waktu: pertarungan raksasa tidak berlarut-larut

diff --git a/economy/client.js b/economy/client.js
@@ -24,6 +24,7 @@ function apply(v) {
   S.money = Math.max(0, Math.floor(v.own));
   if (v.aur && v.aur.own && S.shop && typeof S.shop === "object") { S.shop.equip = S.shop.equip || {}; if (v.aur.eq) S.shop.equip.joran = "pancing_aurora"; else delete S.shop.equip.joran; try { localStorage.setItem("nusa-aur-seen", "1"); } catch (e) {} }   // penanda di perangkat (bukan S.shop: validator menolak kunci asing). Status Pakai/Lepaskan Aurora: SERVER yang berwenang                       // cermin saja; sumber kebenaran = server
   for (const k of Object.keys(v.up || {})) S.up[k] = v.up[k];
+  if (typeof v.kop === "boolean") { S.kop = v.kop; if (!v.kop) S.kopOn = false; }   // Joran Kopdes: kepemilikan dari SERVER
   try { N().refreshHUD(); } catch (e) {}
 }
 // Inisialisasi akun (migrasi sekali) lalu selaraskan. Aman dipanggil berulang.
@@ -110,6 +111,7 @@ function buy(reason, grant, failCb) {
   if (p[0] === "up") body = { kind: "up", k: p[1], lv: (S.up[p[1]] || 0) + 1 };
   else if (p[0] === "rumah") body = { kind: "home", lv: parseInt(p[1], 10) };
   else if (p[0] === "dekor") body = { kind: "cat", id: p[1] };
+  else if (p[0] === "kop") body = { kind: "kop" };
   else return false;
   (async () => {
     try { await flush(); const r = await call("ecoBuy", Object.assign({ opId: rid() }, body)); grant(); apply(r); }   // grant dulu (ia memeriksa level lama), lalu angka server ditimpakan

diff --git a/economy/make-tables.js b/economy/make-tables.js
@@ -4,13 +4,14 @@
 const fs = require("fs"), path = require("path"), vm = require("vm"), crypto = require("crypto");
 function build(root) {
   const ctx = vm.createContext({ console });
-  vm.runInContext(fs.readFileSync(path.join(root, "data.js"), "utf8") + "\n;globalThis.__T={FISH,UPGRADES};", ctx);
+  vm.runInContext(fs.readFileSync(path.join(root, "data.js"), "utf8") + "\n;globalThis.__T={FISH,UPGRADES,KOPDES_ROD};", ctx);
   const HD = require(path.join(root, "world/home-data.js"));
-  const { FISH, UPGRADES } = ctx.__T;
+  const { FISH, UPGRADES, KOPDES_ROD } = ctx.__T;
   const T = {
     FISH: FISH.map((f) => ({ id: f.id, rarity: f.rarity, wMin: f.wMin, wMax: f.wMax, xMax: f.xMax || null, price: f.price, protected: !!f.protected, loc: f.loc, ...(f.sup ? { sup: true } : {}) })),
     UP: Object.fromEntries(Object.entries(UPGRADES).map(([k, u]) => [k, { cost: u.cost.slice(), max: u.cost.length - 1 }])),
     HOME: HD.LEVELS.map((l) => (l ? { price: l.price, stars: l.stars } : null)),
+    KOP: { price: KOPDES_ROD.price, capKg: KOPDES_ROD.capKg },
     CAT: Object.fromEntries(HD.CATALOG.map((c) => [c.id, { price: c.price, stars: c.stars || 0 }])),
   };
   return T;

diff --git a/data.js b/data.js
@@ -193,6 +193,10 @@ const FISH = [
 ];
 
 // Upgrade: level 1 gratis. cost[i] = harga naik ke level i+1
+// Joran Kopdes (dibeli di Kopdes, Pulau Para Legenda; USULAN angka dari Owner, menunggu persetujuan ekonomi): satu kali beli, milik selamanya, di luar tangga 20 joran.
+// capKg = batas rekomendasi ikan (toleransi 1,5× seperti joran lain); strength/reel = pengali tarik; server menegakkan batas bobot lewat kepemilikan (eco.kop).
+const KOPDES_ROD = { id: "joran_kopdes", name: "Joran Kopdes", price: 1000, capKg: 250, strength: 3.0, reel: 2.4,
+  desc: "Batang merah bermerek KOPDES dengan pita emas. Mengangkat ikan hingga 250 kg, dengan kilau merah saat dipakai. Satu kali beli, milik selamanya." };
 const UPGRADES = {
   rod: {
     name: "Joran", icon: "🎣",
